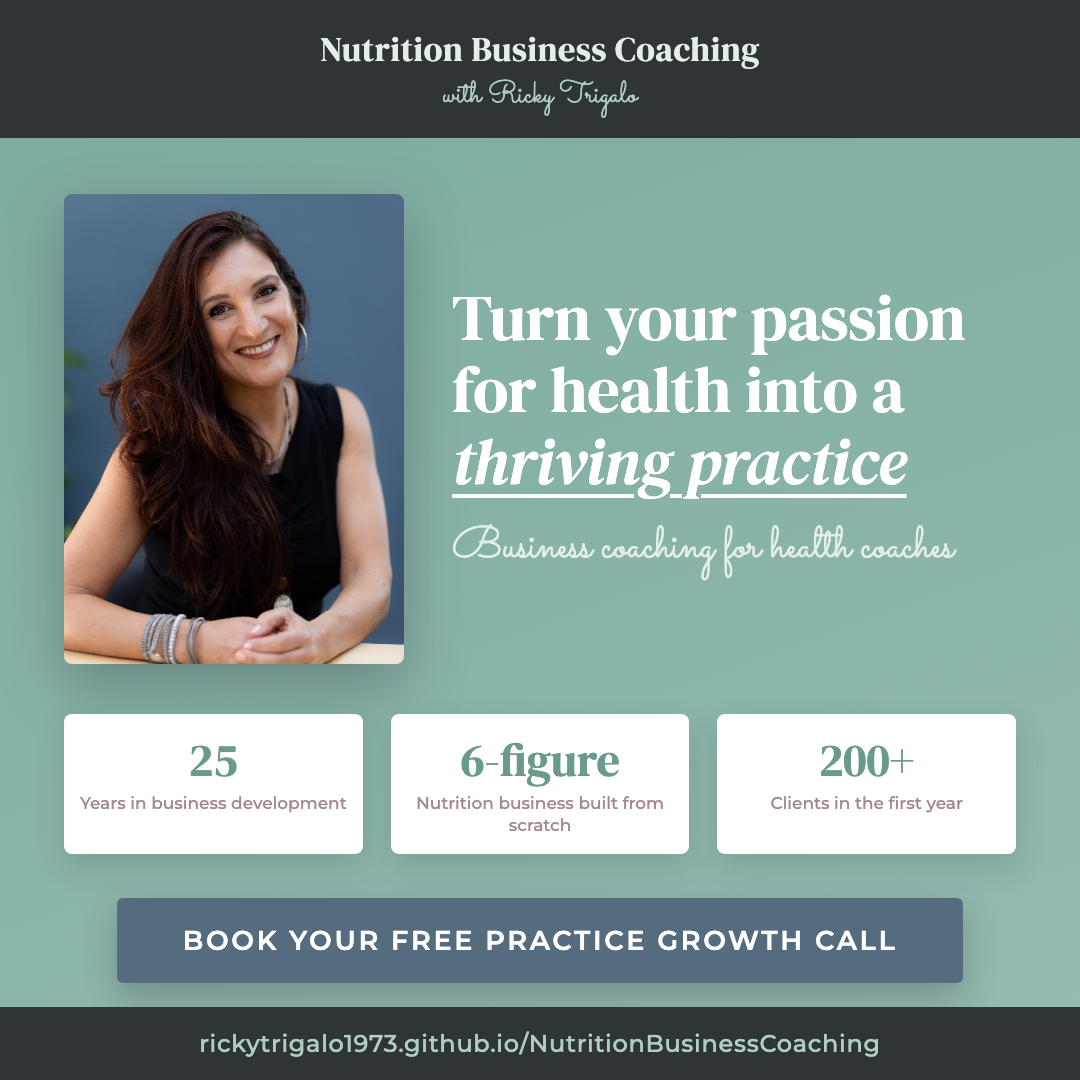
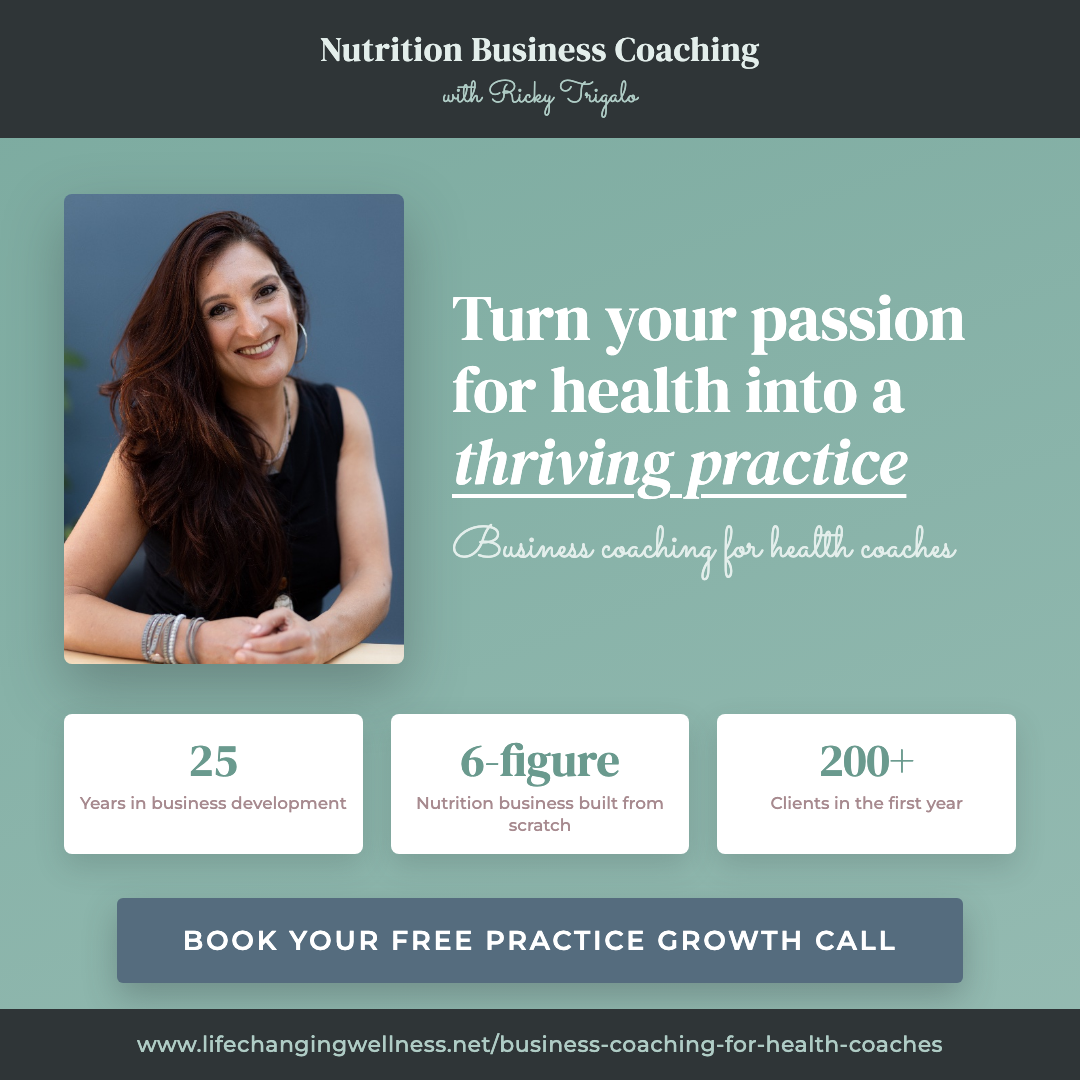
Update flyer URL to lifechangingwellness.net business coaching page

Changed region(s): [[0.1222, 0.9472, 0.8861, 0.9778]]

diff --git a/marketing/flyer-source.html b/marketing/flyer-source.html
@@ -127,9 +127,9 @@
   }
   .bottom .url {
     color: var(--teal-soft);
-    font-size: 24px;
+    font-size: 22px;
     font-weight: 500;
-    letter-spacing: 0.03em;
+    letter-spacing: 0.02em;
   }
 </style>
 </head>
@@ -169,7 +169,7 @@
   </div>
 
   <div class="bottom">
-    <div class="url">rickytrigalo1973.github.io/NutritionBusinessCoaching</div>
+    <div class="url">www.lifechangingwellness.net/business-coaching-for-health-coaches</div>
   </div>
 </body>
 </html>
